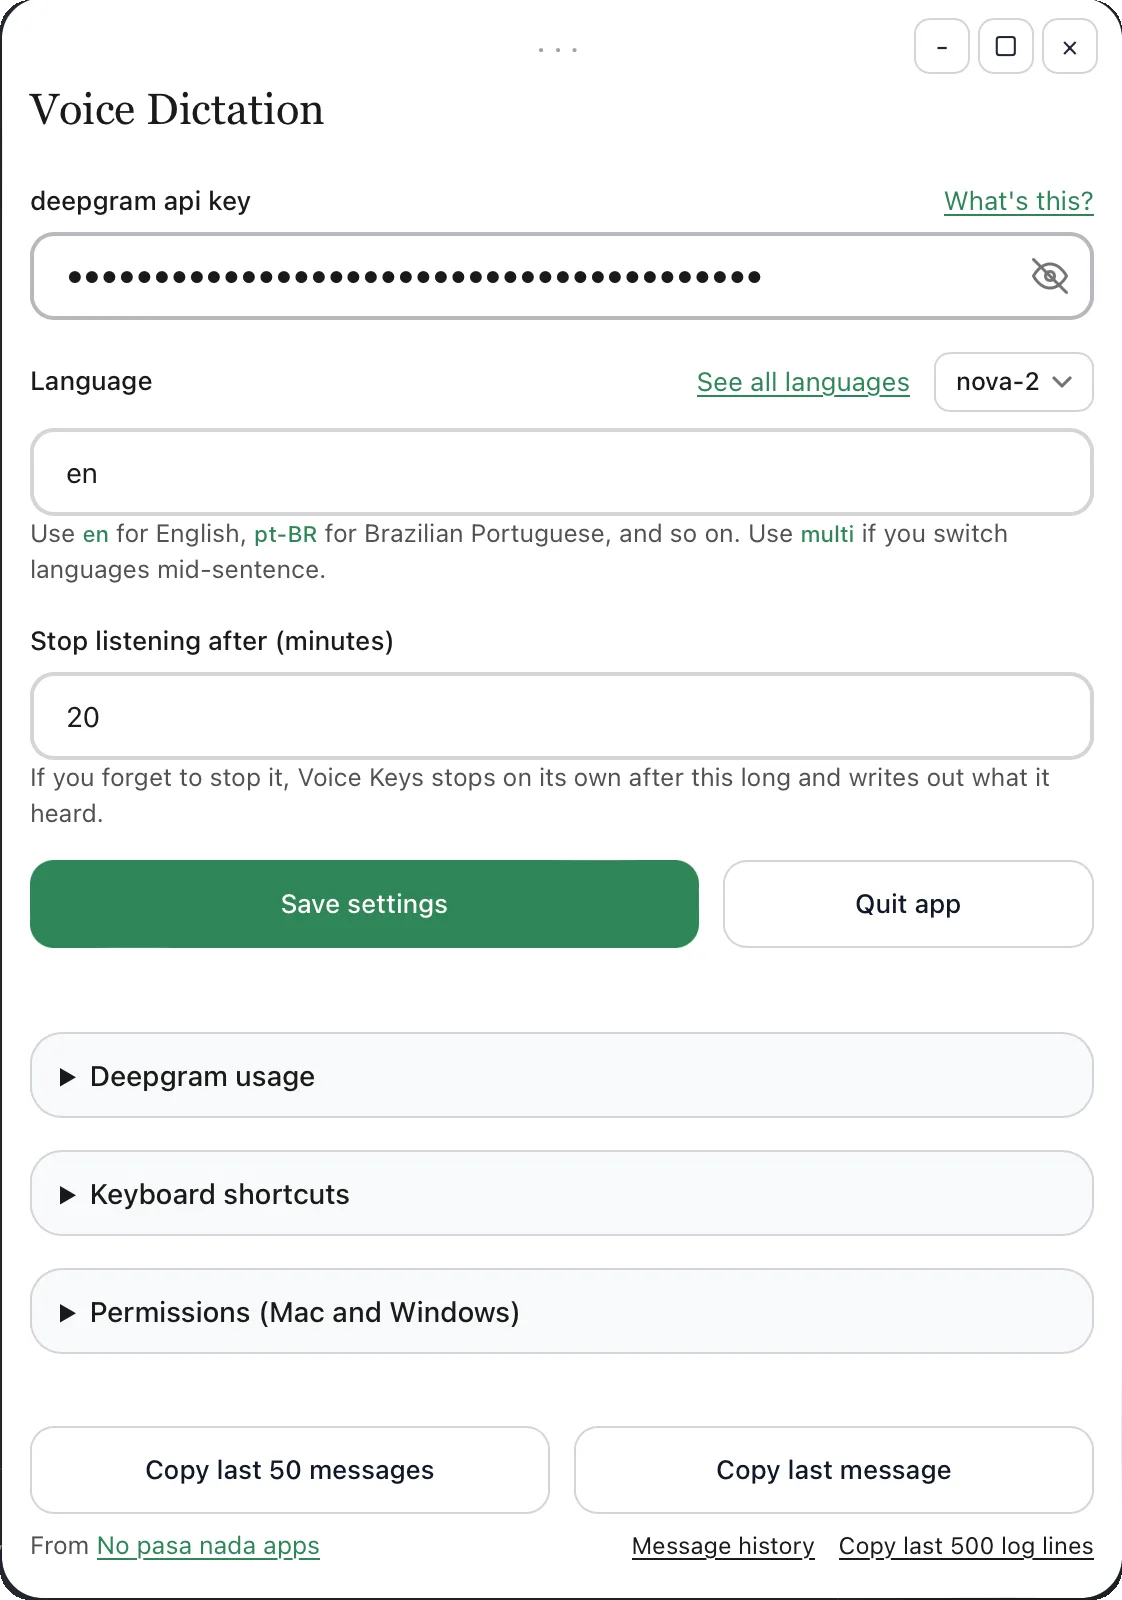
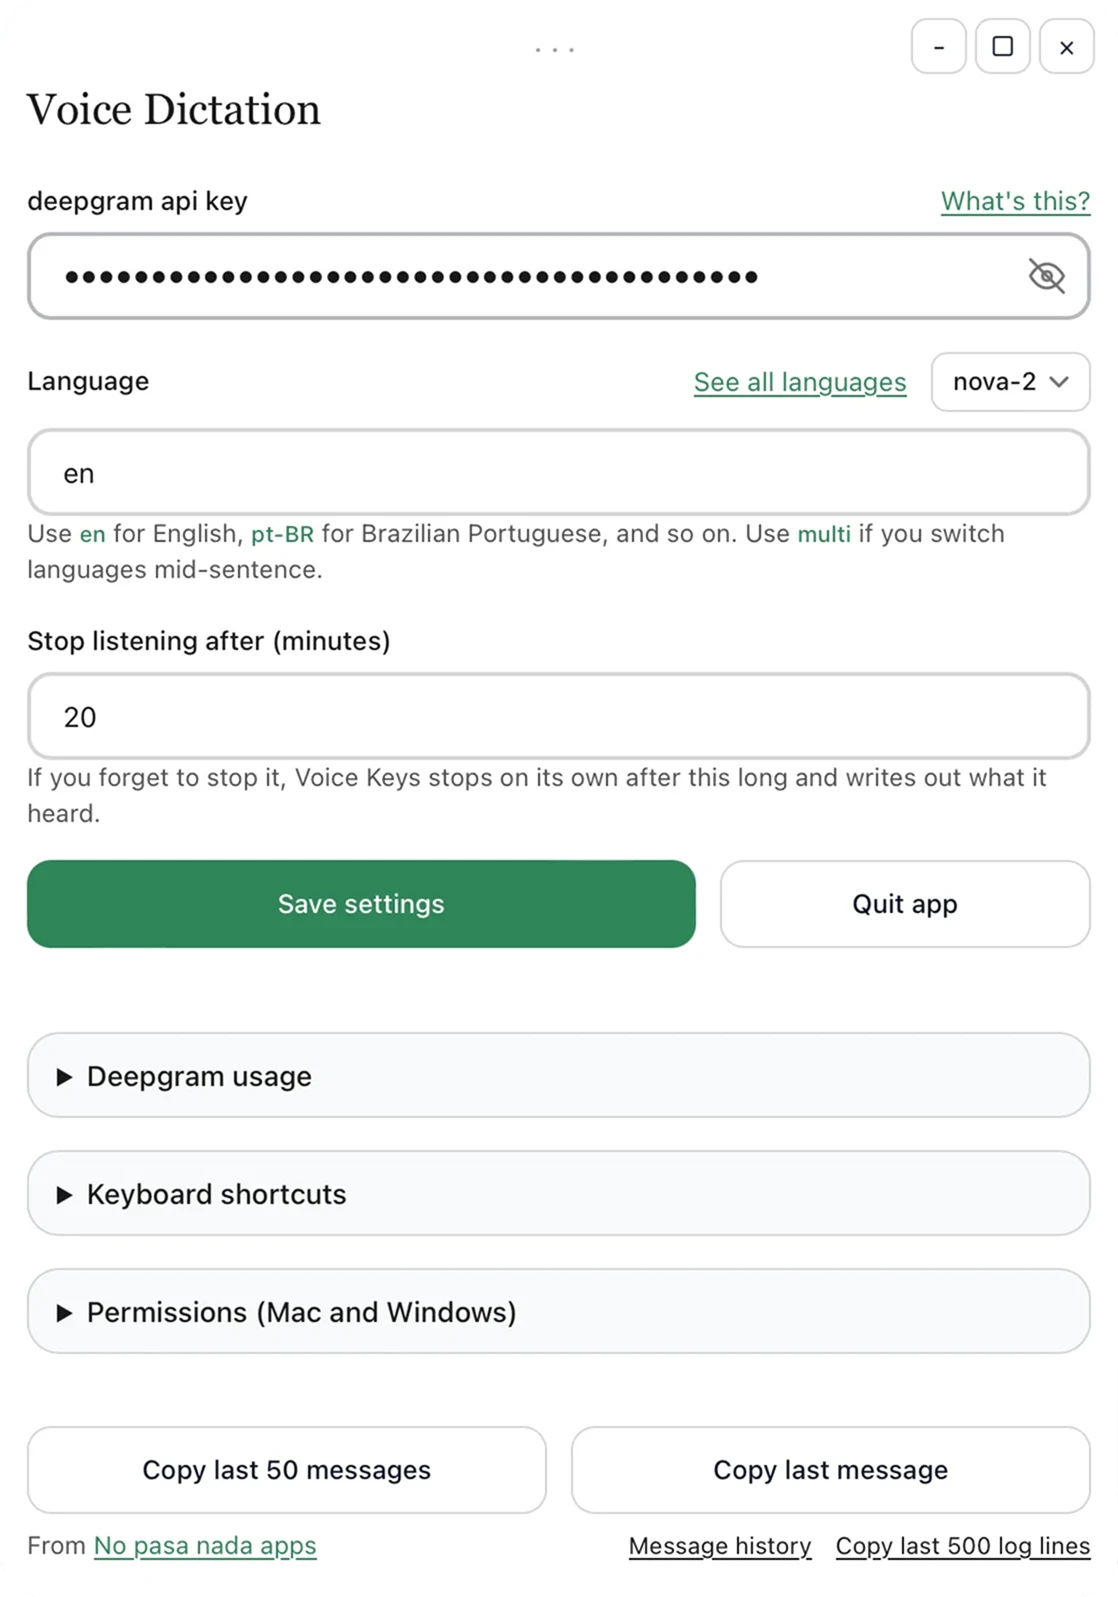
README: improve skim formatting; refresh screenshot.webp
Add emphasis (bold/italics) and quote blocks for readability, no
wording changes. Regenerate screenshot.webp from updated screenshot.png.

diff --git a/README.md b/README.md
@@ -1,6 +1,6 @@
 # Voice Keys
 
-Voice Keys is a desktop dictation app for macOS, Windows, and Linux.
+*Voice Keys is a desktop dictation app for macOS, Windows, and Linux.*
 
 Press a keyboard shortcut to start recording, speak, then press it again. The transcript is pasted into your selected textbox or, if you don't have a textbox selected, copied to your clipboard to paste wherever you want.
 
@@ -12,12 +12,12 @@ Press a keyboard shortcut to start recording, speak, then press it again. The tr
 A free account with [Deepgram](https://deepgram.com), the service that turns
 your speech into text. This is an industry standard in AI, it just doesn't have a consumer-facing app. Voice Keys is that bridge.
 
-At the time of writing, new accounts get $200 in free credit — around 45,000
+At the time of writing, new accounts get **$200 in free credit** — around 45,000
 minutes of transcription (for scale, that's roughly six times through the
 complete Harry Potter audiobooks, Stephen Fry narrating, end to end).
 
 1. Create an account [here](https://deepgram.com)
-2. Click API Keys -> Create New Key - > Advanced -> Change Role -> Admin (this role lets you see your usage) -> Create Key -> Copy your new key.
+2. Click **API Keys** -> **Create New Key** - > **Advanced** -> **Change Role** -> **Admin** (this role lets you see your usage) -> **Create Key** -> Copy your new key.
 3. Download Voice Keys for your computer from the
    [latest release](https://github.com/panth-net/voice-keys/releases/latest).
 4. Install it:
@@ -28,17 +28,18 @@ complete Harry Potter audiobooks, Stephen Fry narrating, end to end).
    - You can use a single language code like `en` or use `multi` for multilingual.
    - Nova-2 is their older model and is ~40-50% cheaper and is plenty good for transcription in English. For other languages, try Nova-2 first, but if it's not great, try Nova-3. For multilingual, you must use Nova-3.
 6. Click Save.
-7. If you haven't already done so, give Voice Keys permissions to use your microphone and keyboard shortcuts. Click *Permissions (Mac and Windows)* to see the instructions.
-8. Set your *Keyboard shortcuts*. `cmd + period` is a good choice on macOS. `alt + period` is a good choice on Windows but use whatever is best for you.
+7. If you haven't already done so, give Voice Keys permissions to use your microphone and keyboard shortcuts. Click **Permissions (Mac and Windows)** to see the instructions.
+8. Set your **Keyboard shortcuts**. `cmd + period` is a good choice on macOS. `alt + period` is a good choice on Windows but use whatever is best for you.
 9. Press your shortcut to start recording. During this time you can navigate your computer and do whatever you want. Press the same shortcut again to stop recording. The transcript is pasted into the textbox you have selected when the transcribing finishes or, if you don't have a textbox selected, is copied to your clipboard to paste wherever you want.
-10. If for some reason it didn't paste, click the *Copy last message* button to copy the last transcript to your clipboard.
+10. If for some reason it didn't paste, click the **Copy last message** button to copy the last transcript to your clipboard.
 
 ## Installing
 
 ### On a Mac, the first time you open it
 #### Issue you will encounter
-Mac will probably say something like *"Voice Keys can't be opened because
-Apple cannot check it for malicious software."*
+Mac will probably say something like:
+
+> *"Voice Keys can't be opened because Apple cannot check it for malicious software."*
 
 This is normal. It happens because we haven't paid Apple's yearly fee to have
 the app officially stamped. Here's how to get past it:
@@ -56,7 +57,9 @@ xattr -dr com.apple.quarantine "/Applications/Voice Keys.app"
 ```
 
 ### On a Windows PC, the first time you open it
-Windows will probably say something like *"Windows protected your PC."*
+Windows will probably say something like:
+
+> *"Windows protected your PC."*
 
 This is normal. It happens because we haven't paid Microsoft's yearly fee to have the app officially stamped. Here's how to get past it:
 
@@ -162,7 +165,7 @@ rm ~/.config/voicekeys/transcripts.txt
 
 ## Privacy
 
-Short version: your voice goes to Deepgram and nowhere else, and Voice Keys
+Short version: **your voice goes to Deepgram and nowhere else**, and Voice Keys
 doesn't watch what you type.
 
 The longer version:
